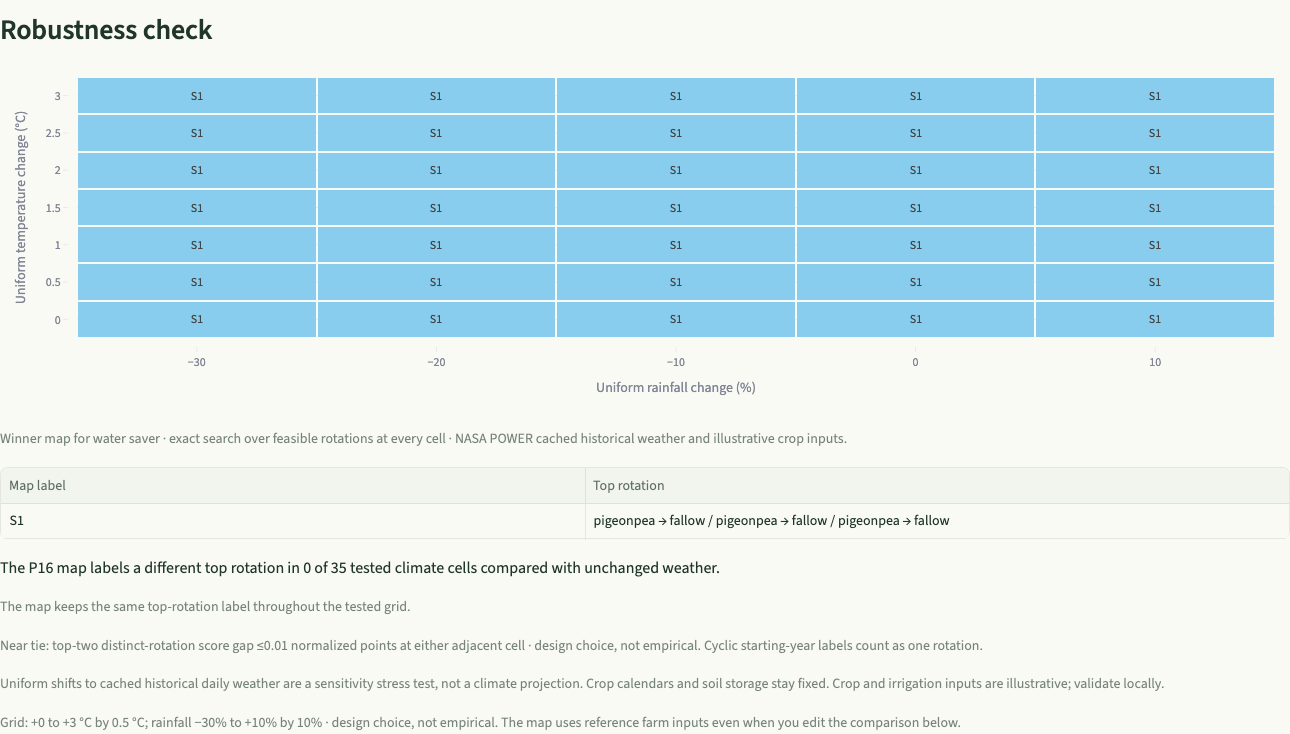
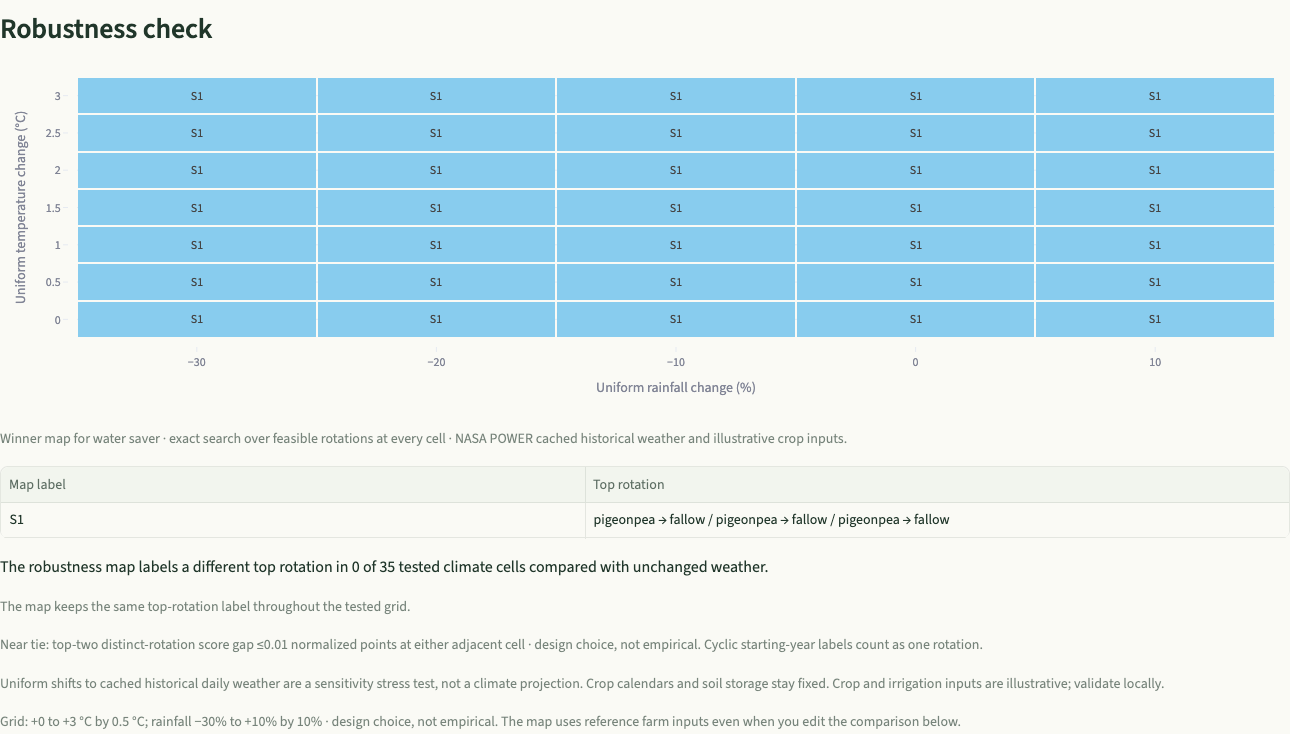
Audit submission claims and report all back-test correlations

diff --git a/app/main.py b/app/main.py
@@ -37,6 +37,26 @@ def title(name):
     return name.replace("_", " ").capitalize()
 
 
+def correlation_counts(farm_ids):
+    studies = {"P15 crop stress and NDVI": [], "P19 NASA weather and NDVI": [],
+               "P20 regional yield": []}
+    for farm_id in farm_ids:
+        for season in load(farm_id, "backtest")["seasons"].values():
+            studies["P15 crop stress and NDVI"].extend(season["comparisons"].values())
+        for season in load(farm_id, "nasa_consistency")["seasons"].values():
+            studies["P19 NASA weather and NDVI"].extend(season["comparisons"])
+        for series in load(farm_id, "yield_backtest")["series"]:
+            studies["P20 regional yield"].extend(series["comparisons"])
+    counts = []
+    for study, comparisons in studies.items():
+        intervals = [row["bootstrap_95"] for row in comparisons if row["bootstrap_95"] is not None]
+        counts.append({"Study": study, "Comparisons": len(comparisons),
+                       "Correlations computed": sum(row["rho"] is not None for row in comparisons),
+                       "Intervals available": len(intervals),
+                       "Intervals excluding zero": sum(low > 0 or high < 0 for low, high in intervals)})
+    return counts
+
+
 def stress_map(data, preset):
     selected = data["presets"][preset]
     rain = data["rainfall_changes_pct"]
@@ -184,7 +204,7 @@ def app():
         st.caption(farm["name"])
         if farm["farm_id"] == "us_high_plains_b" and farm["irrigation"]["supply_fraction"] == 0:
             st.caption("Rainfed reference · 0% of irrigation demand supplied · assumption, validate locally")
-        st.write(assessment["assessment"])
+        st.write(assessment["assessment"].replace("longest observed dry spell", "longest dry spell in the POWER record"))
         for flag in validity["flags"]:
             st.warning(flag)
         if farm_id == "us_high_plains_b":
@@ -196,9 +216,22 @@ def app():
             with tab:
                 chart = pio.from_json((DATA / f"chart_{farm_id}_{key}.json").read_text())
                 st.plotly_chart(chart, key=f"chart_{key}", config={"displayModeBar": False})
-        st.caption("NASA POWER rainfall and temperature · NASA Terra MODIS vegetation")
+        st.caption("NASA POWER rainfall and temperature · GPM IMERG for the rainfall agreement check · NASA Terra MODIS vegetation")
     with st.container(key="historical_validation"):
         st.subheader("Validation · historical back-test")
+        counts = correlation_counts(by_id)
+        computed = sum(row["Correlations computed"] for row in counts)
+        comparisons = sum(row["Comparisons"] for row in counts)
+        excluding_zero = sum(row["Intervals excluding zero"] for row in counts)
+        st.write(f"Across all three farms, {computed} of {comparisons} comparisons produced a correlation. "
+                 f"{excluding_zero} bootstrap intervals excluded zero.")
+        st.caption("These checks compare NASA weather and vegetation data and examine consistency with county or "
+                   "district yields. "
+                   "Rotation recommendations still need field validation.")
+        with st.expander("Correlation counts across all farms"):
+            st.dataframe(pd.DataFrame(counts), hide_index=True)
+            st.caption("Counts use full-precision endpoints. Intervals that touch zero include zero. "
+                       "Intervals are descriptive and unadjusted for multiple comparisons.")
         backtest = load(farm_id, "backtest")
         st.caption("2019–2023 · CDL mapped classes in Kansas; assumed crop identities in Telangana and Makueni. "
                    "This uses the reference farm inputs, even when you edit the comparison below.")
@@ -320,7 +353,7 @@ def app():
         st.dataframe(pd.DataFrame(legend), hide_index=True)
         finding = diagnosis["presets"][preset]
         margin = load(farm_id, "stress_margins")["presets"][preset]
-        st.write(f"The P16 map labels a different top rotation in {finding['changed_cells']} of "
+        st.write(f"The robustness map labels a different top rotation in {finding['changed_cells']} of "
                  f"{finding['grid_cells']} tested climate cells compared with unchanged weather.")
         if margin["near_tie"]:
             st.info("top choices are close here · the nearest reported change is between options "
@@ -346,8 +379,8 @@ def app():
             st.caption("Showing a new exact comparison and new scenario draws for your edited inputs.")
             if edits[3] > 0:
                 st.caption(f"Entered farm area {edits[3]:g} ha · farmer input")
-    alternatives = alternative_groups(result["strategies"][1:],
-                                       diagnosis["alternative_difference"]["threshold"])
+    difference_threshold = diagnosis["alternative_difference"]["threshold"]
+    alternatives = alternative_groups(result["strategies"][1:], difference_threshold)
     with st.container(key="strategy_comparison"):
         st.subheader("Compare rotations")
         st.caption(farm["name"])
@@ -375,9 +408,10 @@ def app():
         st.dataframe(pd.DataFrame(rows), hide_index=True)
         st.caption(f"{alternatives['displayed_alternatives']} displayed alternatives form "
                    f"{alternatives['meaningfully_different_groups']} "
-                   "meaningfully different metric profiles at a maximum 0.05 normalized-score difference "
-                   "· design choice, not empirical. Candidates below this threshold are omitted rather than padded.")
-        st.caption("Water source · NASA POWER rainfall, soil available water and crop demand. Priority scores combine all six sourced metrics.")
+                   f"distinct metric profiles. Each selected alternative differs from the baseline and every "
+                   f"other selected alternative by more than {difference_threshold:g} on at least one normalized "
+                   "metric. The threshold is a design choice.")
+        st.caption("Wins use the selected preset and split credit among tied strategies. Water source · NASA POWER rainfall, soil available water and crop demand. Priority scores combine all six sourced metrics.")
         chart = go.Figure(go.Bar(x=[row["Strategy"] for row in rows], y=[row["Historical priority score"] for row in rows],
                                  marker_color=COLORS[:len(rows)]))
         chart.update_layout(yaxis=dict(range=[0, 1], title="Weighted score"), height=290,

diff --git a/scripts/capture_screenshots.py b/scripts/capture_screenshots.py
@@ -42,7 +42,8 @@ def capture(url, destination, channel=None):
     destination.mkdir(parents=True, exist_ok=True)
     with sync_playwright() as playwright:
         browser = playwright.chromium.launch(channel=channel)
-        context = browser.new_context(viewport={"width": 1450, "height": 1000}, device_scale_factor=1)
+        # Capture the full panel within the viewport so Streamlit renders its off-screen text.
+        context = browser.new_context(viewport={"width": 1450, "height": 2100}, device_scale_factor=1)
         # Reject external HTTP resources to verify that the browser demo is self-contained.
         context.route("**/*", lambda route: route.continue_() if urlsplit(route.request.url).hostname == HOST
                       else route.abort())
@@ -65,6 +66,8 @@ def capture(url, destination, channel=None):
             validation = page.locator(".st-key-historical_validation")
             expect(validation.get_by_text("Validation · historical back-test")).to_be_visible()
             expect(validation.locator(".js-plotly-plot:visible").first).to_be_visible()
+            validation.get_by_text("Correlation counts across all farms", exact=True).click()
+            expect(validation.get_by_text("Intervals that touch zero", exact=False)).to_be_visible()
             validation.screenshot(path=destination / f"{farm_id}_validation.png", animations="disabled")
             robustness = page.locator(".st-key-climate_stress_test")
             expect(robustness.get_by_text("Robustness check")).to_be_visible()

diff --git a/tests/test_app.py b/tests/test_app.py
@@ -19,6 +19,16 @@ def test_offline_farm_scenario_clickthrough(site, monkeypatch):
     assert any(len(table.value) == 5 and "Strategy" in table.value.columns for table in app.dataframe)
     assert any("Validation · historical back-test" in row.value for row in app.subheader)
     assert any("NASA climate and vegetation check" in row.label for row in app.expander)
+    counts = next(table.value for table in app.dataframe if "Intervals excluding zero" in table.value.columns)
+    assert list(counts["Comparisons"]) == [24, 36, 10]
+    assert list(counts["Correlations computed"]) == [12, 36, 10]
+    assert list(counts["Intervals available"]) == [12, 36, 10]
+    assert list(counts["Intervals excluding zero"]) == [4, 11, 3]
+    assert any("58 of 70 comparisons" in row.value and "18 bootstrap intervals" in row.value for row in app.markdown)
+    p15 = next(table.value for table in app.dataframe if "Comparison" in table.value.columns)
+    p19 = next(table.value for table in app.dataframe if "MODIS response" in table.value.columns)
+    assert len(p15) == 8
+    assert len(p19) == 12
     assert any(row.label == "Yield back-test" for row in app.expander)
     yield_tables = [table.value for table in app.dataframe if "Paired n" in table.value.columns]
     if site == "kenya_makueni_north":

diff --git a/docs/p24_audit.md b/docs/p24_audit.md
@@ -1,0 +1,30 @@
+# P24 final consistency audit
+
+P24 checked the README, submission summary, demo script and app against the committed reference-farm outputs and methodology docs. It also checked the corresponding tables in the optimizer, historical back-test and robustness docs. All results remain illustrative and need local validation.
+
+## Numbers checked against saved outputs
+
+- **Optimizer and alternatives.** All 12 farm–preset rows agree with the saved verification, including hit rates and mean and worst gaps. The canonical search sizes are 168 for Kansas, 211,394 for Telangana and 16,914 for Makueni over three years. Single runs hit the exact optimum 21–30 times per 30 trials. Best of five hit it 30 of 30 in every row. Each reference farm has a baseline and four alternatives that clear the distinctness threshold on at least one of six normalized metrics. [Optimizer](optimizer.md)
+- **Robustness.** The grid has 35 cells per farm and preset. All 12 changed-label counts, the 11 nearest changed cells and their adjacent gaps agree with the cached tables. All 11 reported changes qualify as near-ties under the 0.01 weighted-score tolerance, including four Kansas changes with an exact tie on both sides. Telangana water saver keeps its top label throughout. The grid ranges and both the 0.01 tolerance and 0.05 alternative threshold are design choices. [Robustness](stress_test.md)
+- **Climate coverage.** The climate cache holds 12,784 daily dates per reference farm from 1991 to 2025. The app's dry-spell lengths, annual rainfall variability, quality-screened composite counts and rainfall agreement values match the assessment records. Checked all 72 farm-year coverage entries for 2001–2024. Each farm has 552 valid MODIS composites, of which 516 passed QA in Kansas, 295 in Telangana and 345 in Makueni. [Data pipeline](data_pipeline.md) · [Annual coverage table](backtest.md#annual-modis-coverage)
+- **Historical comparisons.** Checked all 70 comparison cells, including every reported coefficient, interval and paired sample size, plus P15 and P19 directional counts and the available P20 yield years. P15 computed 12 correlations with 4 intervals excluding zero, P19 computed 36 with 11, and P20 computed 10 with 3. Total **58 correlations, 18 intervals excluding zero**. The absent 12 correlations are shown as unavailable. Comparison counts use full-precision endpoints. [Complete tables](backtest.md)
+- **Evidence and site flags.** The reference strategies have low overall evidence labels. The Kansas point is modeled with 0% irrigation supply and its spring 2019 NDVI peak over CDL-mapped fallow remains unexplained. Telangana's second season is tentative and the repeated-paddy flag is visible. Makueni remains unverified cropland. [Evidence grades](evidence_grades.md) · [Site notes](decisions.md)
+
+The submission paragraph contains 150 words. Other numbers in the reviewed text include demo timings, UI limits, and runtime instructions. Those describe the demo rather than reported results.
+
+## Text and provenance fixes
+
+- **Robustness docs.** Corrected the Kansas reference sequence in the water-saver and balanced rows to fallow → sorghum → soybean, and in soil builder to fallow → soybean → cereal rye cover. The labels and ordering come from the unchanged-weather cells of the cached winner maps. [Maps and margins](stress_test.md)
+- **README and demo.** Described the baseline as configured or supplied rather than a documented rotation at an actual farm. Called P19 a consistency check. Described the Kansas spring peak as unexplained over mapped fallow. Clarified that shared top scores split the credit in the scenario win calculation. The original optimizer and coverage figures agree with the outputs. [README](../README.md) · [Demo](demo.md)
+- **App.** Attributed dry-spell length to the POWER record and identified GPM IMERG's rainfall agreement role. Added the aggregate correlation tally and study counts above the existing tables, which show every comparison for the selected farm. Described the robustness label count as a comparison with unchanged weather, and displayed the distinctness threshold from the saved diagnostic. Explained the split credit for tied scenario scores. [App](../app/main.py)
+- **Back-test docs.** Added the complete tally, documented the full-precision interval count, and clarified which P15 correlations were unavailable. Neither Kansas window nor Telangana monsoon had enough pairs. Telangana post-monsoon had three pairs per comparison and all four intervals crossed zero. The studies describe NASA input consistency and regional yield associations. Rotation recommendations still need field validation. [Historical comparisons](backtest.md)
+- **Submission summary.** Listed POWER, MODIS NDVI and land cover, SRTM, SSURGO, CDL, SoilGrids, NASS Quick Stats and ICRISAT. GPM IMERG contributed solely to the rainfall agreement diagnostic. Listed unused SMAP, ECOSTRESS, GRACE, Landsat and ERA5, and kept the AI-assistance wording as a placeholder. [Submission summary](submission_summary.md)
+- **Legacy sources.** KALRO's cowpea manual and the previously cited ministry handbook could not be reopened. Cowpea duration now carries `assumption, validate locally`. The thermal source removed the inaccessible link and retains its existing assumption label. The source whitelist and app settings reflect that change. ICRISAT's Table 10.7 opened by direct download and supports the six cited pulse water and duration values. [Recheck record](citation_audit.md#p24-legacy-source-recheck)
+
+## Verification and limits
+
+The P19 rebuild uses POWER and MODIS with cached season windows and reads no crop catalog. The P20 rebuild reads catalog inputs only for winter wheat, grain sorghum and paddy. Both rebuilds reproduced the committed outputs byte for byte. The numeric crop catalog, scoring, rankings, uncertainty results, robustness outputs and saved evidence grades are unchanged. All displayed reference strategies omit cowpea. The refreshed assumption label applies when a dynamic comparison uses its duration.
+
+All 97 tests passed, including the offline app tests for all three reference farms. Regenerated and verified all 18 PNGs with the browser restricted to local resources. The refresh covers climate, comparison, uncertainty, robustness, validation and evidence views. The capture script now fits the full panels and opens the correlation tally. Checked 151 local README and docs link and image references. [Screenshot index](screenshots/README.md)
+
+Outside the two legacy sources and the already-cited cowpea fallback, external links were not rechecked. The audit cannot resolve the Kansas spring peak, confirm Makueni cropland or establish Telangana's second season. Makueni still lacks a comparable seasonal yield series.

diff --git a/docs/backtest.md b/docs/backtest.md
@@ -4,6 +4,19 @@ This is a **descriptive check**, not a crop-yield validation. We fixed the exist
 
 The [Kansas chart](charts/backtest_us_high_plains_b.svg), [Telangana chart](charts/backtest_telangana_a.svg), and [Makueni chart](charts/backtest_kenya_makueni_north.svg) show deficit share against NDVI peak. The app's **Validation** panel shows the same interactive plots and all four correlation pairs per season. The [Kansas](../data/processed/backtest_us_high_plains_b.json), [Telangana](../data/processed/backtest_telangana_a.json), and [Makueni](../data/processed/backtest_kenya_makueni_north.json) JSON files include every year, crop, season, source tag and statistic.
 
+## All correlations across P15, P19 and P20
+
+The back-tests check consistency between NASA weather and vegetation inputs and between modeled stress and county or district yields. Rotation recommendations still need field validation. All comparisons are shown below, including those with unavailable estimates, weak or opposite signs, and intervals that include zero.
+
+| Study | Comparisons | Correlations computed | Bootstrap intervals available | Intervals excluding zero |
+|---|---:|---:|---:|---:|
+| P15 crop stress and MODIS NDVI | 24 | 12 | 12 | 4 |
+| P19 NASA weather and MODIS NDVI | 36 | 36 | 36 | 11 |
+| P20 county or district yield | 10 | 10 | 10 | 3 |
+| **Total** | **70** | **58** | **58** | **18** |
+
+The totals pool the saved comparisons across all three farms. A correlation counts when Spearman ρ is available. An interval excludes zero only if both full-precision endpoints are strictly positive or strictly negative. The intervals are descriptive and unadjusted for multiple comparisons. Comparisons reuse observations, so the 18 intervals are not independent confirmations. Makueni has no seasonal yield comparison in P20.
+
 ## What was compared
 
 - Kansas uses saved USDA CDL point classes: 2019 fallow, 2020 winter wheat, 2021 sorghum, 2022 fallow, 2023 winter wheat. Winter wheat is assigned to the **harvest year** and its climate and NDVI window starts in the previous October. Fallow has no crop water or heat stress indicator. CDL is a mapped class, not verified management.
@@ -13,7 +26,7 @@ The [Kansas chart](charts/backtest_us_high_plains_b.svg), [Telangana chart](char
 
 ## Results
 
-Each cell is `Spearman ρ [bootstrap interval]; n`. “Unavailable” means fewer than three nonconstant pairs. A negative sign is the expected direction if more stress coincides with lower greenness. The numeric model indicators are illustrative and require local validation.
+Each cell gives Spearman ρ, the bootstrap interval and paired n. An estimate is unavailable with fewer than three pairs or a constant series. A negative sign is the expected direction if more stress coincides with lower greenness. The numeric model indicators are illustrative and require local validation.
 
 | Farm and season | Water deficit vs NDVI peak | Water deficit vs amplitude | Heat days vs NDVI peak | Heat days vs amplitude | Directionally consistent years |
 |---|---|---|---|---|---|
@@ -24,7 +37,7 @@ Each cell is `Spearman ρ [bootstrap interval]; n`. “Unavailable” means fewe
 | Makueni long rains | −0.40 [−1.00, 1.00]; n=5 | −0.20 [−1.00, 1.00]; n=5 | −0.71 [−1.00, −0.71]; n=5 | −0.71 [−1.00, −0.71]; n=5 | 2 of 3 assessable |
 | Makueni short rains | −0.20 [−1.00, 1.00]; n=5 | **+0.90 [+0.11, 1.00]; n=5, wrong sign** | 0.00 [−1.00, 1.00]; n=5 | **+0.95 [+0.75, 1.00]; n=5, wrong sign** | 2 of 3 assessable |
 
-The water-deficit/NDVI-peak direction is weakly negative where estimable, but every interval spans both signs. The positive short-rains amplitude results are contrary to the simple stress hypothesis and are reported unchanged. Kansas and Telangana cannot support a meaningful within-season correlation from these years. The 2019 Kansas spring NDVI peak over CDL-mapped fallow remains unexplained.
+Water deficit and NDVI peak are weakly negatively associated where estimable, with intervals spanning both signs. The positive short-rains amplitude results run against the expected direction. Neither Kansas season nor Telangana monsoon had enough pairs to estimate a correlation. Telangana post-monsoon had three pairs, and all four intervals spanned both signs. The 2019 Kansas spring NDVI peak over CDL-mapped fallow remains unexplained.
 
 ## What this does not prove
 

diff --git a/docs/submission_summary.md b/docs/submission_summary.md
@@ -8,15 +8,21 @@ CropSwarm is an offline decision-support prototype that helps farmers compare cr
 
 | Provider | Dataset | Role in results |
 |---|---|---|
-| NASA | [POWER](data_pipeline.md) corrected precipitation, temperature, radiation, humidity and modeled root-zone wetness | Weather diagnostics, crop water balance and scenarios. POWER `PRECTOTCORR` drives seasonal windows and strategy scores. |
-| NASA | [GPM IMERG via POWER](data_pipeline.md) | **Used in the rainfall agreement diagnostic** shown in the climate assessment. It was **not used** to score or rank rotations. |
-| NASA | [Terra MODIS MOD13Q1 and MCD12Q1](data_pipeline.md) | Vegetation seasonality and land-cover validity checks. They do not establish crop identity at a point. |
+| NASA | [POWER](data_pipeline.md) corrected precipitation, temperature, radiation, humidity and modeled root-zone wetness | Daily weather was cached. Corrected precipitation and temperature feed seasonal diagnostics, stress indicators and scenario scoring. Modeled root-zone wetness informs the climate assessment. |
+| NASA | [GPM IMERG via POWER](data_pipeline.md) | Used in the climate assessment’s rainfall agreement check against POWER corrected precipitation on matching UTC dates. That diagnostic is its only role in the results. |
+| NASA | [Terra MODIS MOD13Q1 NDVI](data_pipeline.md) | Vegetation seasonality and the P15 and P19 historical comparisons. |
+| NASA | [MODIS MCD12Q1 land cover](decisions.md) | Land-cover screening, including the grassland flag at the illustrative Makueni point. |
 | NASA / NGA | [SRTM](data_pipeline.md) through OpenTopoData | Terrain slope proxy in the erosion score. |
 | Non-NASA | [ISRIC SoilGrids](api_status.md) | Gridded soil texture and organic-carbon estimates. |
-| Non-NASA | [USDA SSURGO and CDL](api_status.md) | Kansas soil context and mapped crop history; CDL is not a farm management record. |
+| Non-NASA | [USDA SSURGO](api_status.md) | Kansas soil map units and estimated soil water capacity. |
+| Non-NASA | [USDA NASS Cropland Data Layer](decisions.md) | Mapped Kansas crop history and the P15 crop identity input. |
+| Non-NASA | [USDA NASS Quick Stats](backtest.md#p20-yield-back-test) | Finney County winter wheat and sorghum yields for P20. |
+| Non-NASA | [ICRISAT district yields](backtest.md#p20-yield-back-test) | Historical Warangal kharif rice yields from the public study archive for P20. |
 | Non-NASA | [Crop catalog and assumptions](crops.md) | Indicative crop water need, sourced botanical families and locally unverified values for crop climate screening, nitrogen, cover and relative income. See the [P23 source audit](p23_changes.md). |
 
 ## Limitations
+
+SMAP, ECOSTRESS, GRACE, Landsat and ERA5 were unused. The historical comparisons check NASA input consistency and associations with county or district yields. Rotation recommendations still need field validation.
 
 These are illustrative point estimates, not field boundaries or management records. Kansas irrigation supply is set to 0, the 2019 spring NDVI peak over mapped fallow is unresolved, Telangana's second season is tentative, and Makueni cropland remains unverified. POWER root-zone wetness and SoilGrids properties are modeled estimates. The app does not directly measure soil nitrogen or soil organic carbon. Relative income, rainfall uncertainty, simplified erosion, season windows and crop choices need local validation. Scenario intervals and win percentages reflect the specified model and assumptions, not calibrated forecast probabilities. See [decisions](decisions.md), [methods](scoring.md), and [citation audit](citation_audit.md).
 

diff --git a/docs/demo.md b/docs/demo.md
@@ -4,19 +4,19 @@
 
 | Time | Screen | Talk track |
 |---|---|---|
-| 0:00–0:20 | US High Plains B | “A farmer often has several plausible rotations and limited time to compare them. CropSwarm starts with the rotation they already use and brings NASA observations and local assumptions into one comparison.” |
+| 0:00–0:20 | US High Plains B | “A farmer often has several plausible rotations and limited time to compare them. CropSwarm starts with a supplied baseline rotation and brings NASA observations and local assumptions into one comparison.” |
 | 0:20–0:45 | Rainfall and vegetation | “NASA POWER shows the seasonal water pattern. Terra MODIS shows a spring 2019 vegetation peak over a neighborhood classified as fallow by CDL. The cause remains unexplained.” |
 | 0:45–1:05 | Inputs and priorities | “The Kansas reference is rainfed, with zero irrigation supplied in the model. The farmer can edit crops, soil water and water supply assumptions. Here I put more weight on water. The chart updates the scores of the displayed rotations.” |
-| 1:05–1:30 | Compare rotations | “CropSwarm compares the existing rotation with four distinct strategies. Each shows how it trades off water, nitrogen, erosion, climate fit, income and risk. Open one to see its evidence.” |
-| 1:30–1:55 | Warmer and drier | “The percentiles show a range of modeled outcomes. Wins show how frequently each strategy scored highest among the displayed rotations under the selected preset.” |
+| 1:05–1:30 | Compare rotations | “CropSwarm compares the configured baseline with four distinct alternatives for the reference farm. Each shows how it trades off water, nitrogen, erosion, climate fit, income and risk. Open one to see its evidence.” |
+| 1:30–1:55 | Warmer and drier | “The percentiles show a range of modeled outcomes. Wins show each strategy’s share of the top scores across draws under the selected preset. Tied strategies split the credit.” |
 | 1:55–2:15 | Telangana, then Makueni | “Telangana's second season is tentative, and repeated paddy keeps its rotation warning. Makueni's cropland status is unverified.” |
 | 2:15–2:30 | Optimizer check | “We checked ant colony search against exact enumeration. The best of five searches reached the optimum in all 30 trials for each farm and preset. Validate the results locally. The farmer decides.” |
 
 ## Slide outline
 
-1. Describe the decision and the farmer's existing rotation.
+1. Describe the decision and the reference baseline rotation.
 2. Show the site's NASA rainfall and vegetation charts alongside the soil context.
 3. Adjust the farmer's six priorities.
-4. Compare the existing rotation with four alternatives. Show one benefit, one trade-off and one evidence source.
+4. Compare the baseline with four alternatives. Show one benefit, one trade-off and one evidence source.
 5. Explain the scenario percentiles and wins, then show the Makueni flag.
 6. Close with exact optimizer verification and the evidence the farmer needs for a local decision.

diff --git a/docs/crops.md b/docs/crops.md
@@ -6,7 +6,7 @@
 
 `water_need_mm` estimates crop evapotranspiration over one growing period, in millimetres of water. Published reference ranges supply a representative value or the lower endpoint for a short growing period, as noted in each source field. FAO-56 describes the crop coefficient method for estimating evapotranspiration using local weather. The catalog supplies indicative totals. Cowpea uses the midpoint of two published field ET totals from Bangalore, 281.6–288.0 mm, as an illustrative regional reference. The [P23 audit](p23_changes.md) records the source and transfer limits. Paddy's value excludes water for land preparation, flooding, percolation and seepage, which requires separate local estimates. [FAO irrigation training manual, Tables 6 and 14](https://www.fao.org/4/s2022e/s2022e07.htm), [FAO-56 Chapter 6](https://www.fao.org/4/x0490e/x0490e0b.htm), [FAO paddy irrigation requirements](https://www.fao.org/4/s2022e/s2022e08.htm).
 
-`min_rain_mm` and `max_rain_mm` describe total rainfall over the assessed growing window for a preliminary climate screen. Effective rainfall and unmet water demand require separate calculations. Likewise `min_temp_c` and `max_temp_c` screen the growing-window mean daily air temperature, while `heat_tolerance_c` is a threshold for counting days whose daily maximum exceeds it. Cowpea's 30 °C daily maximum trigger and seasonal rainfall bounds are assumptions, validate locally. The KALRO ecological temperature range informs the illustrative mean temperature bounds. KALRO's rainfall range is annual. [KALRO training manual, cowpea section and Table 2.5](https://www.kalro.org/elrp/docfiles/ELRP-Training-Manual-Final.pdf).
+`min_rain_mm` and `max_rain_mm` describe total rainfall over the assessed growing window for a preliminary climate screen. Effective rainfall and unmet water demand require separate calculations. Likewise `min_temp_c` and `max_temp_c` screen the growing-window mean daily air temperature, while `heat_tolerance_c` is a threshold for counting days whose daily maximum exceeds it. Cowpea's heat trigger, temperature and rainfall bounds, and 85-day growing window are assumptions to validate locally. See the [P24 source recheck](p24_audit.md).
 
 `season_length_days` represents a single illustrative crop cycle from planting to harvest or termination. Winter wheat includes dormancy and can span calendar years. Other crop durations are references or locally unverified assumptions, as indicated in the table. [Kansas State Wheat Production Handbook calendar](https://bookstore.ksre.ksu.edu/pubs/wheat-production-handbook_C529.pdf), [FAO Kenya assessment, Table 4.11](https://www.fao.org/4/t0733e/T0733E05.htm), [ICRISAT repository, Table 10.7](https://oar.icrisat.org/11909/1/Chapter-Legumes-2021-Proof.pdf).
 

diff --git a/README.md b/README.md
@@ -13,13 +13,13 @@ CropSwarm is an offline decision-support demo for comparing crop rotations at th
 
 ## Seven key results
 
-1. Each farm shows its existing baseline and four alternatives with distinct metric profiles, reasons, benefits, risks and information gaps.
-2. NASA POWER supplies 1991–2025 daily weather for all three sites. The long-record validation uses 2001–2024 Terra MODIS composites. [Coverage and results](docs/backtest.md#p19-long-record-nasa-consistency-check)
+1. Each farm shows its configured baseline and four alternatives with distinct metric profiles, reasons, benefits, risks and information gaps.
+2. NASA POWER supplies 1991–2025 daily weather for all three sites. The long-record consistency check uses 2001–2024 Terra MODIS composites. [Coverage and results](docs/backtest.md#p19-long-record-nasa-consistency-check)
 3. Six source-tagged metrics cover water, nitrogen, erosion, climate fit, relative income and risk. [Scoring](docs/scoring.md)
 4. Exact enumeration evaluated 168 canonical rotations in Kansas, 211,394 in Telangana and 16,914 in Makueni over three years. Whole-year cyclic shifts count once. [Verification](docs/optimizer.md)
 5. Across 30 seeded trials per farm and preset, a single ant-colony run found the exact optimum 21–30 times. Best of five found it in all 30 trials. [Gaps](docs/optimizer.md)
 6. Seeded scenario draws show score ranges, win percentages, regret and sensitivity; these ranges describe model assumptions. [Method](docs/scoring.md)
-7. The baseline flags remain visible: Kansas fallow and spring NDVI disagree, Telangana repeats paddy and its second season is tentative, and Makueni cropland is unverified. [Validity](docs/decisions.md)
+7. The baseline flags remain visible: the spring NDVI peak over Kansas CDL-mapped fallow remains unexplained, Telangana repeats paddy and its second season is tentative, and Makueni cropland is unverified. [Site caveats](docs/decisions.md)
 
 Evidence grades expose how each modeled metric depends on NASA, external, literature and assumed inputs. All displayed strategies currently have a **low overall evidence label** because key crop and management inputs remain assumptions. [Method and limits](docs/evidence_grades.md)
 

diff --git a/docs/citation_audit.md b/docs/citation_audit.md
@@ -38,3 +38,8 @@ Scope covers every external URL originally cited in `docs/crops.md`, `data/crops
 | [USDA NASS Cropland Data Layer FAQ](https://www.nass.usda.gov/research-and-science/cropland/sarsfaqs2) | Decisions | opened-and-supports | Confirms 30 m resolution through 2023 and the later change to 10 m. The P7 file records the sampled class values. |
 
 The local evidence references were also opened and checked. The [P2 files](../data/raw/p2_evidence/) contain rainfall, site choices and archived subsets. The [P3 manifest](../data/raw/p3/manifest.json) connects ground and terrain context fields to archived SSURGO, SoilGrids, SRTM and USGS payloads. The [P4 coverage report](../data/processed/coverage_p4.json) and [P7 validity outputs](../data/processed/) support distinctions between missing downloads, quality-screened observations and land-cover evidence. Entries explicitly marked `assumption, validate locally` are model choices and make no external verification claim.
+
+## P24 legacy source recheck
+
+- **KALRO cowpea training manual · unreachable on recheck.** The browser timed out and a direct request returned HTTP 403. The already-cited Kenyan ministry handbook also timed out. The cowpea duration now carries `assumption, validate locally`. The thermal values already had that label, and their inaccessible source link was removed. The values are unchanged. [KALRO training manual](https://www.kalro.org/elrp/docfiles/ELRP-Training-Manual-Final.pdf) · [Kenya ministry handbook](https://statistics.kilimo.go.ke/files/bookpage/KENYA_Farmers-Extension-Handbook.pdf)
+- **Wani et al., ICRISAT · opened and supports.** The browser returned HTTP 403, and a direct request returned the PDF. Table 10.7, page 19 of the PDF, lists reported duration and water ranges of 85–130 days and 300–500 mm for chickpea, 140–180 days and 500–800 mm for pigeonpea, and 65–80 days and 350–400 mm for green/black gram. The six catalog source labels were retained. Applying the values at the reference sites requires local validation. [ICRISAT chapter](https://oar.icrisat.org/11909/1/Chapter-Legumes-2021-Proof.pdf)

diff --git a/docs/stress_test.md b/docs/stress_test.md
@@ -10,10 +10,10 @@ Each map has four preset panels. The outlined grid cell is unchanged historical 
 
 | Farm | Preset | Cells with a different map label | Nearest changed map cell | Map-label change from unchanged weather |
 |---|---|---:|---|---|
-| Kansas | Water saver | 15 of 35 | +2 °C, 0% rain | Fallow → soybean → sorghum changes to fallow → soybean → pearl millet. |
-| Kansas | Soil builder | 1 of 35 | +3 °C, +10% rain | Fallow → cereal rye cover → soybean changes to fallow → soybean → pearl millet. |
+| Kansas | Water saver | 15 of 35 | +2 °C, 0% rain | Fallow → sorghum → soybean changes to fallow → soybean → pearl millet. |
+| Kansas | Soil builder | 1 of 35 | +3 °C, +10% rain | Fallow → soybean → cereal rye cover changes to fallow → soybean → pearl millet. |
 | Kansas | Income | 20 of 35 | +1.5 °C, 0% rain | Sorghum → soybean → sunflower changes to maize → soybean → sunflower. |
-| Kansas | Balanced | 19 of 35 | +1 °C, +10% rain | Fallow → soybean → sorghum changes to fallow → soybean → pearl millet. |
+| Kansas | Balanced | 19 of 35 | +1 °C, +10% rain | Fallow → sorghum → soybean changes to fallow → soybean → pearl millet. |
 | Telangana | Water saver | 0 of 35 | **No label change** | Pigeonpea then fallow remains the top repeated annual pattern throughout the grid. |
 | Telangana | Soil builder | 2 of 35 | +3 °C, 0% rain | Soybean then fallow replaces pigeonpea then fallow as the top annual pattern. |
 | Telangana | Income | 12 of 35 | +1 °C, +10% rain | Soybean then maize replaces pigeonpea then maize as the top annual pattern. |
